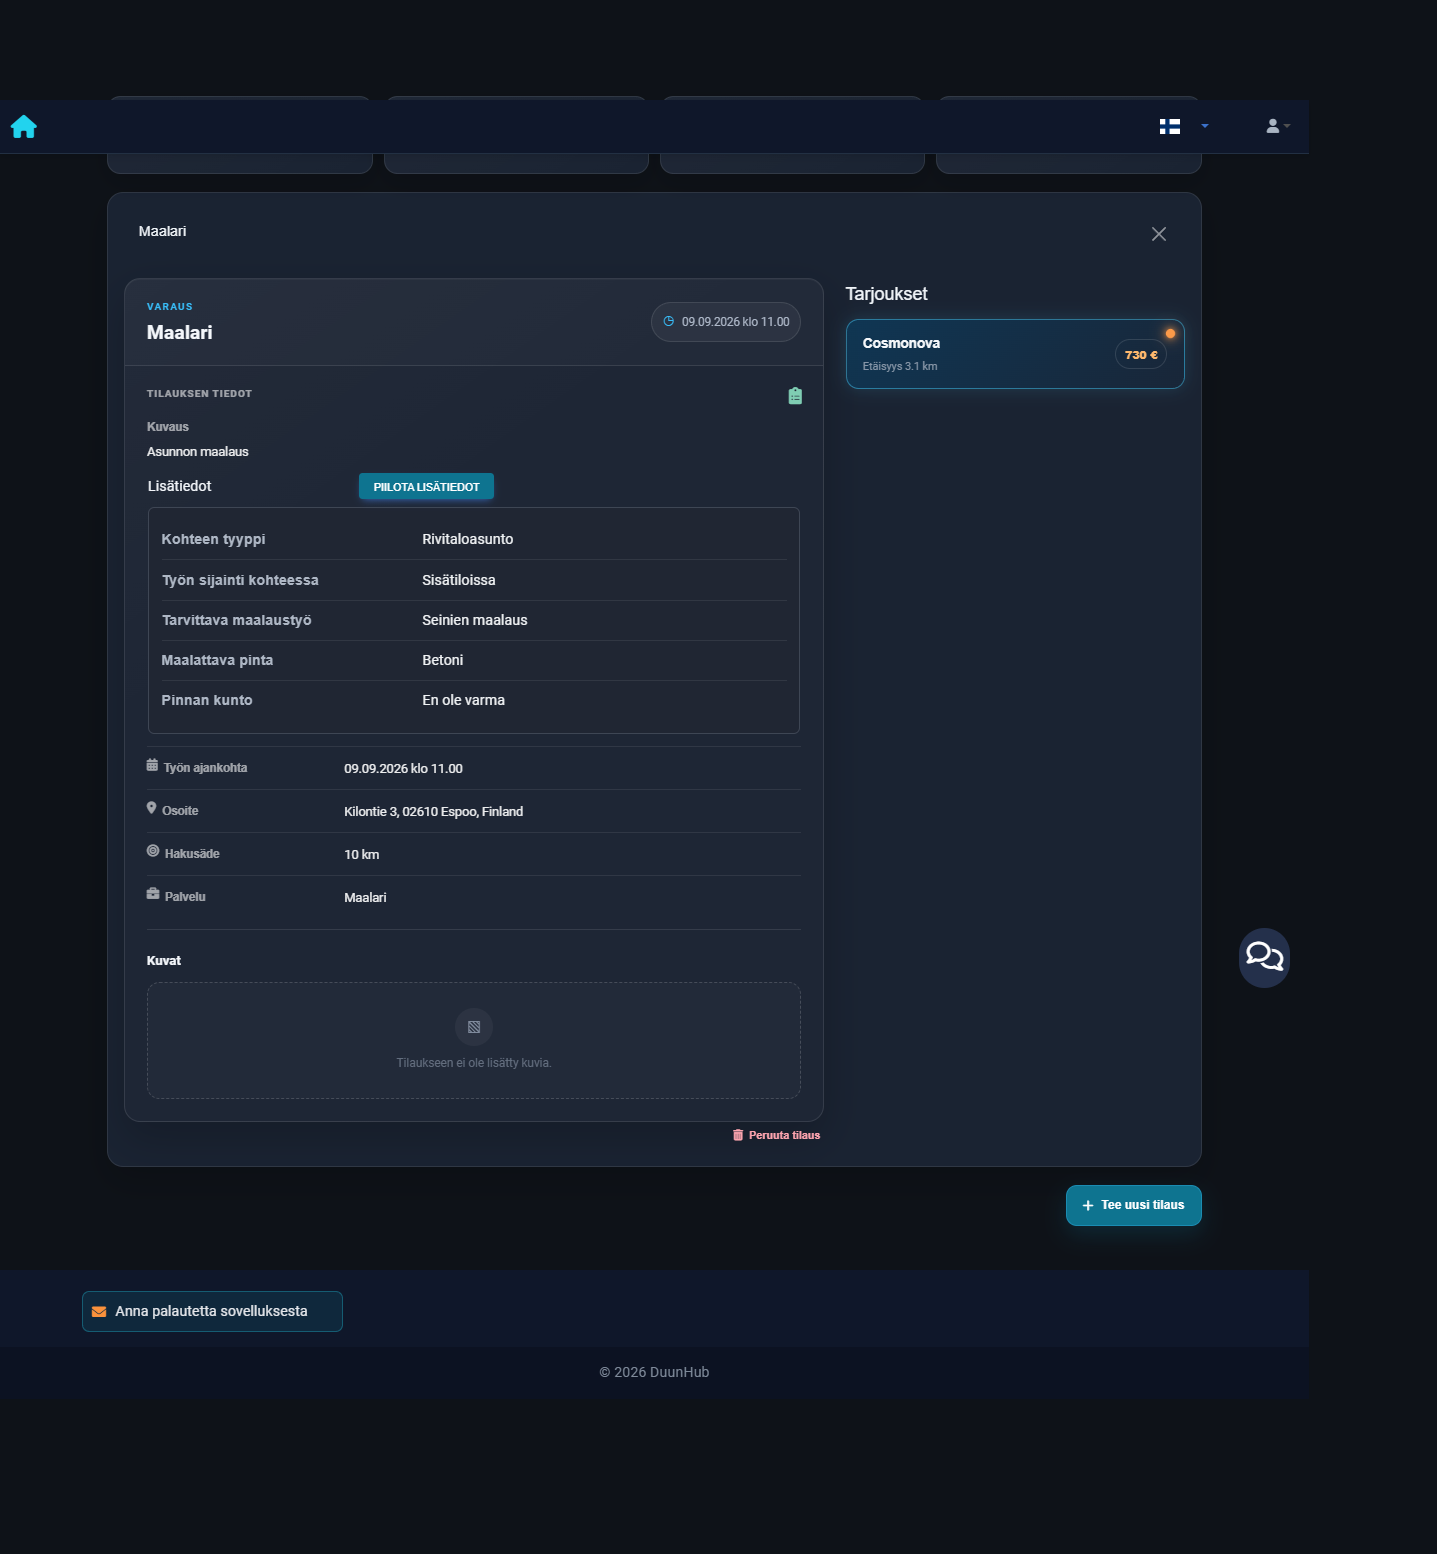
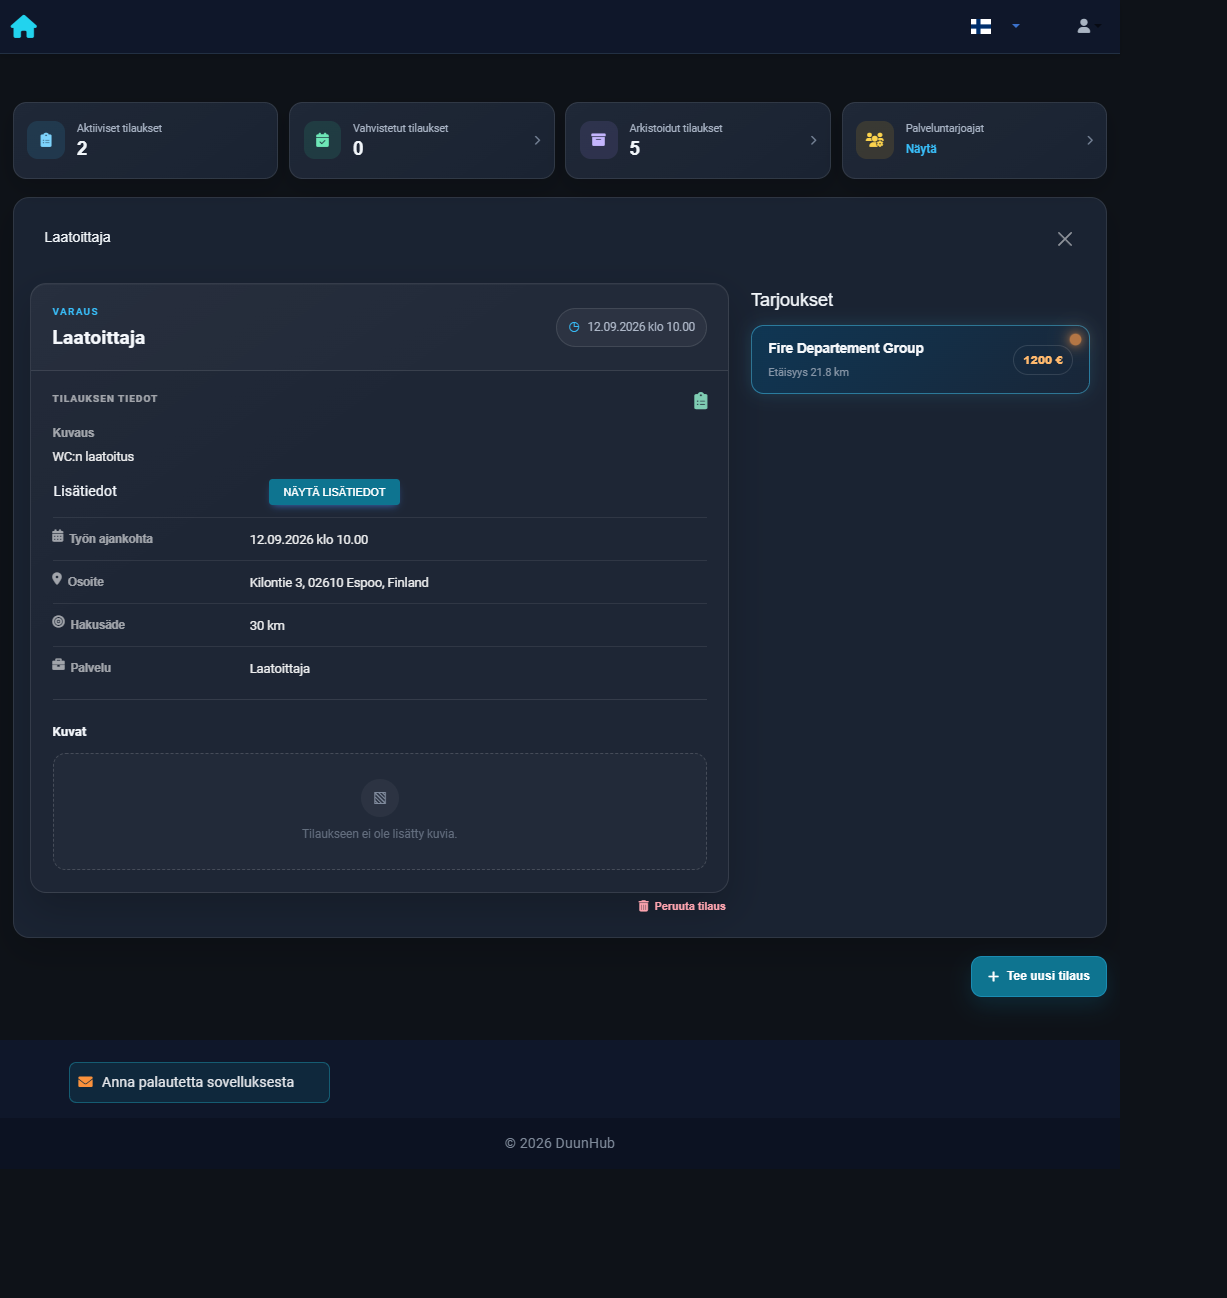
Changed portfplio offers.png with better image

diff --git a/src/App.vue b/src/App.vue
@@ -595,11 +595,6 @@ const checkDisplayMode = () => {
   //isMobile.value = window.innerWidth <= 640;
 };
 
-/* const isPageStandalone = () => {
-  return window.matchMedia("(display-mode: standalone)").matches ||
-    window.navigator.standalone === true;
-}; */
-
 const isPageStandalone = computed(() => {
   return route.meta.standalone === true;
 });
